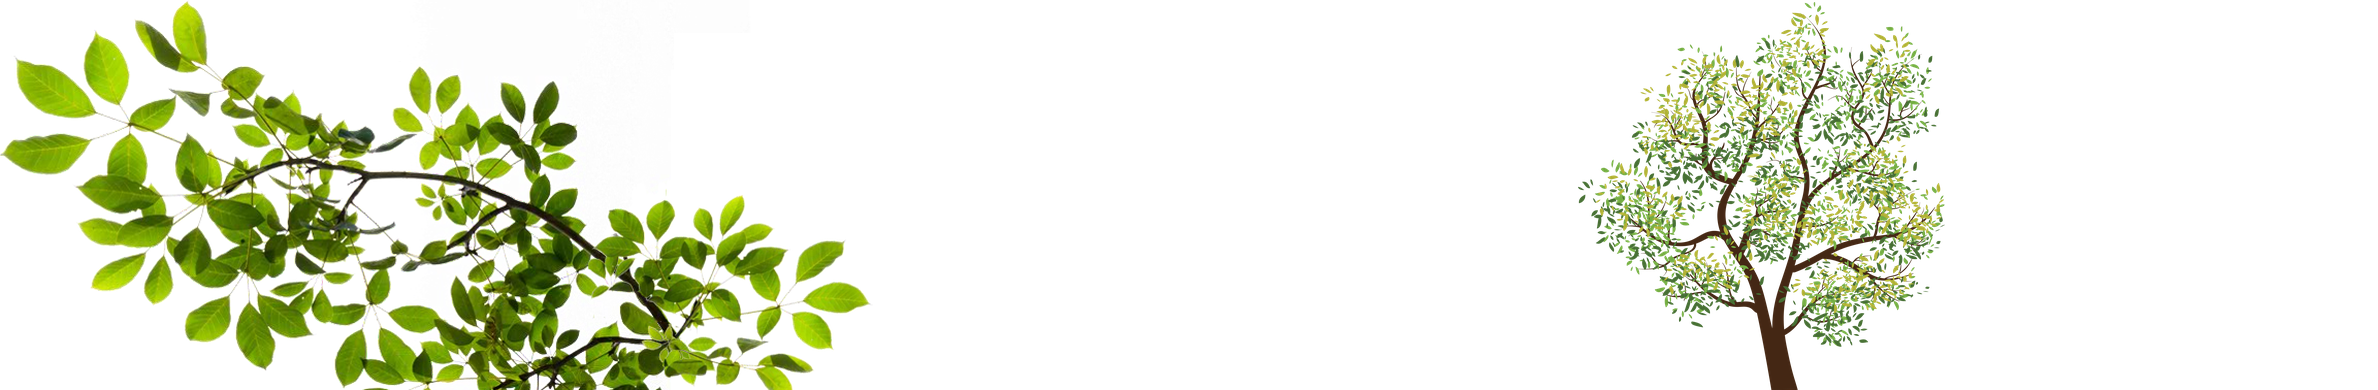
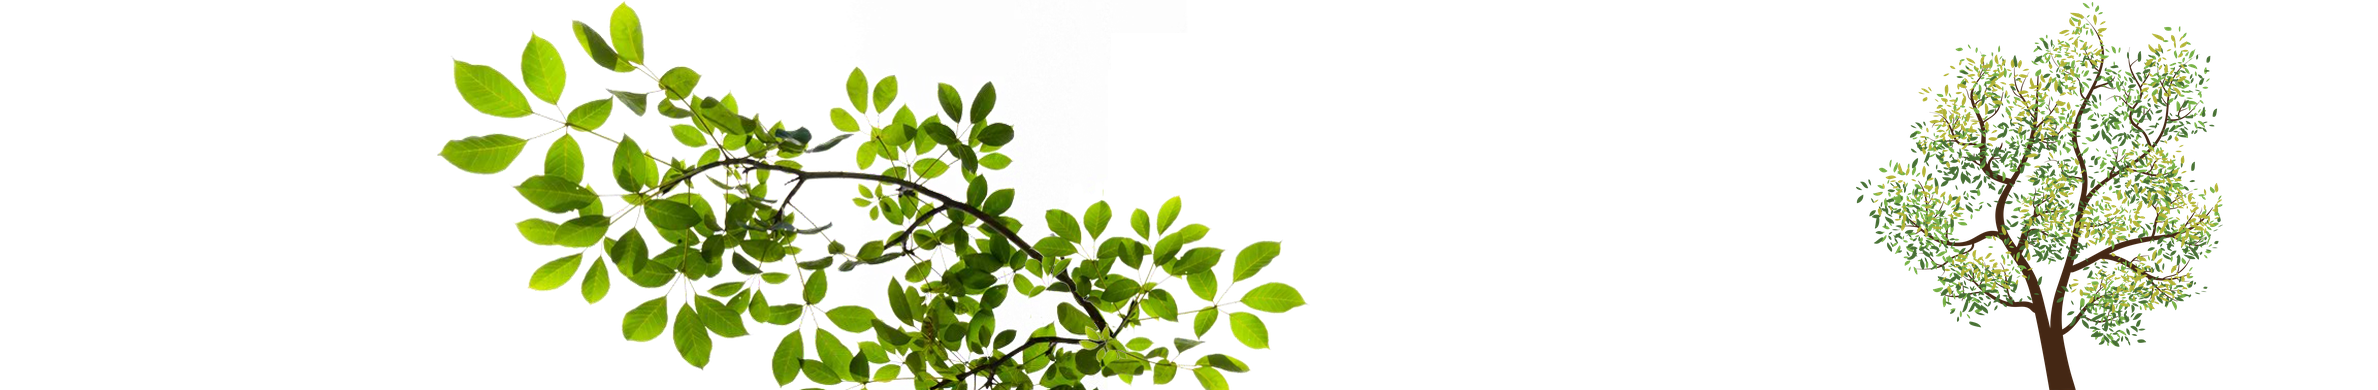
up

diff --git a/src/javascript/components/Sprite.class.js b/src/javascript/components/Sprite.class.js
@@ -79,7 +79,7 @@ class Sprite {
     STORAGE.animatedFemale.animationSpeed = 0.4
     STORAGE.animatedFemale.transform.scale = {_x : 5, _y : 5}
     // STORAGE.animatedFemale.position.set(window.innerWidth/2, STORAGE.frontView.y)
-    STORAGE.animatedFemale.position.set(window.innerWidth/2, window.innerHeight-50)
+    STORAGE.animatedFemale.position.set(window.innerWidth/2, window.innerHeight-200)
     STORAGE.animatedFemale.play()
     STORAGE.app.stage.addChild(STORAGE.animatedFemale)
   }
@@ -165,10 +165,17 @@ class Sprite {
       STORAGE.animatedFemale.y = STORAGE.backView.height
     }
 
+    // collision bord gauche
+    if (STORAGE.floor.x >= 0) {
+      STORAGE.floor.x = 0
+      STORAGE.backView.x = 0
+      STORAGE.frontView.x = 0
+    }
+
     // défilement des paysages
     STORAGE.floor.x -= STORAGE.female.vx 
-    STORAGE.backView.x -= STORAGE.female.vx * 0.8
-    STORAGE.frontView.x -= STORAGE.female.vx * 1.3
+    STORAGE.backView.x -= STORAGE.female.vx * 0.6
+    STORAGE.frontView.x -= STORAGE.female.vx * 1.5
   }
 
   keyboard(value) {
